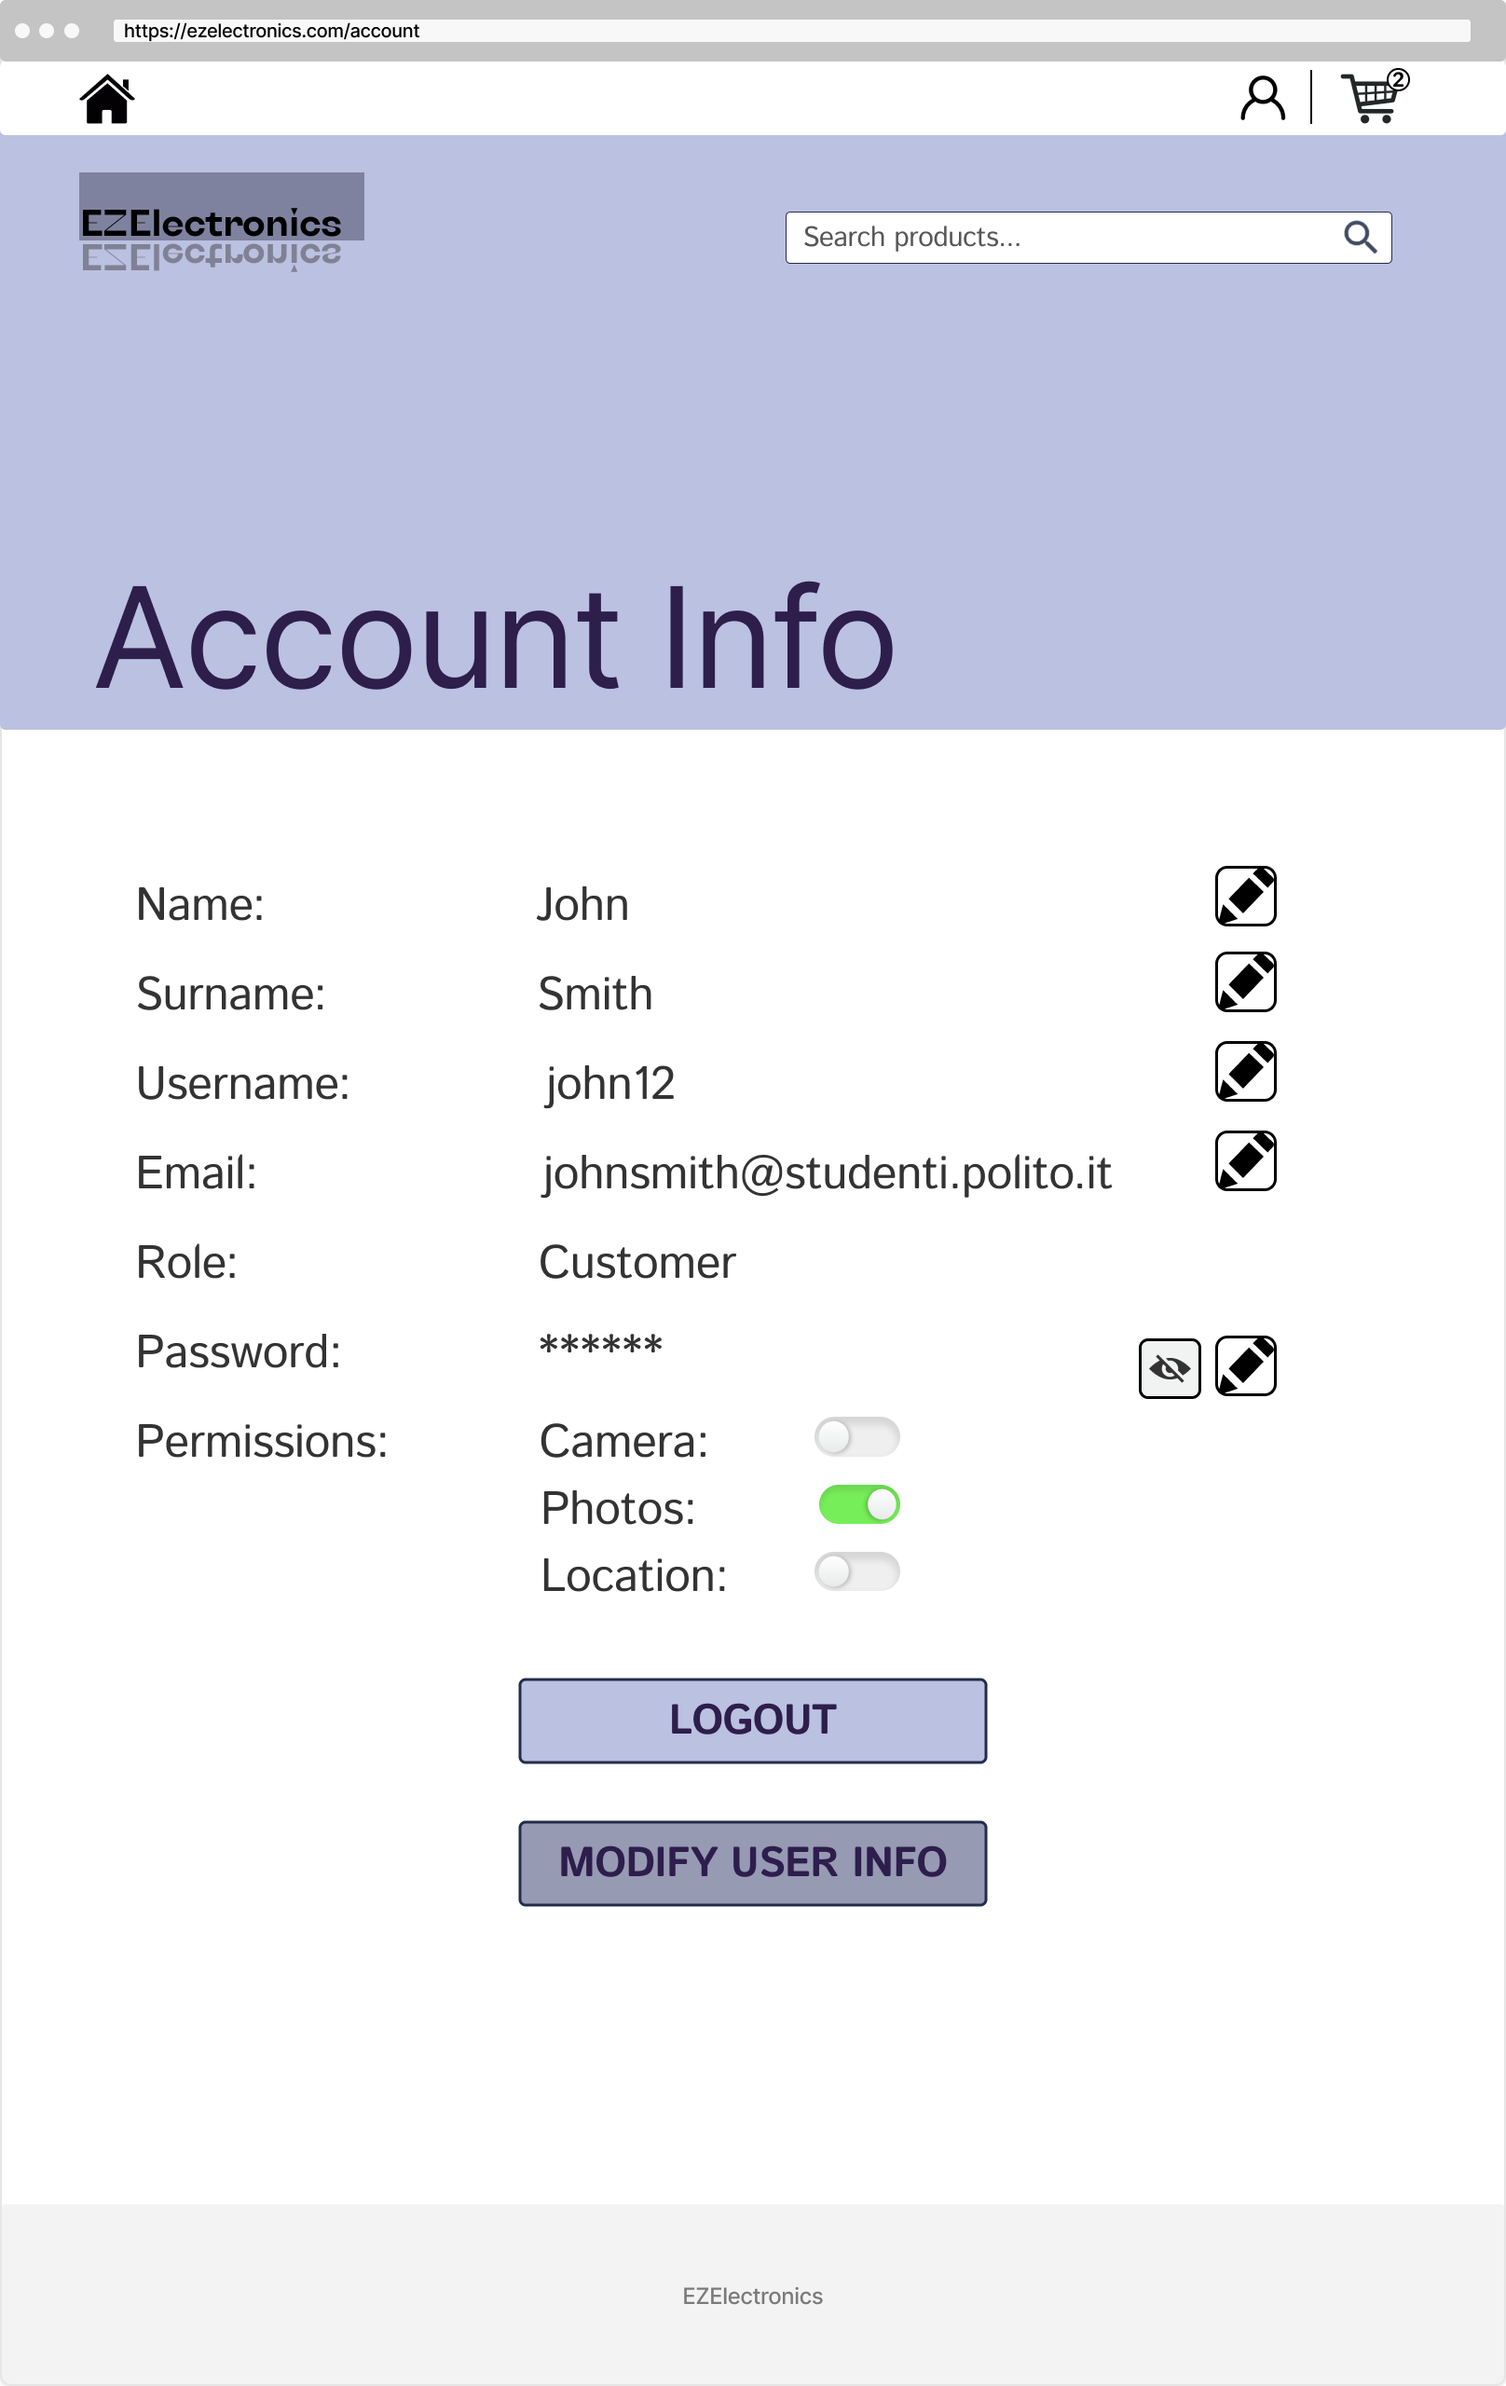
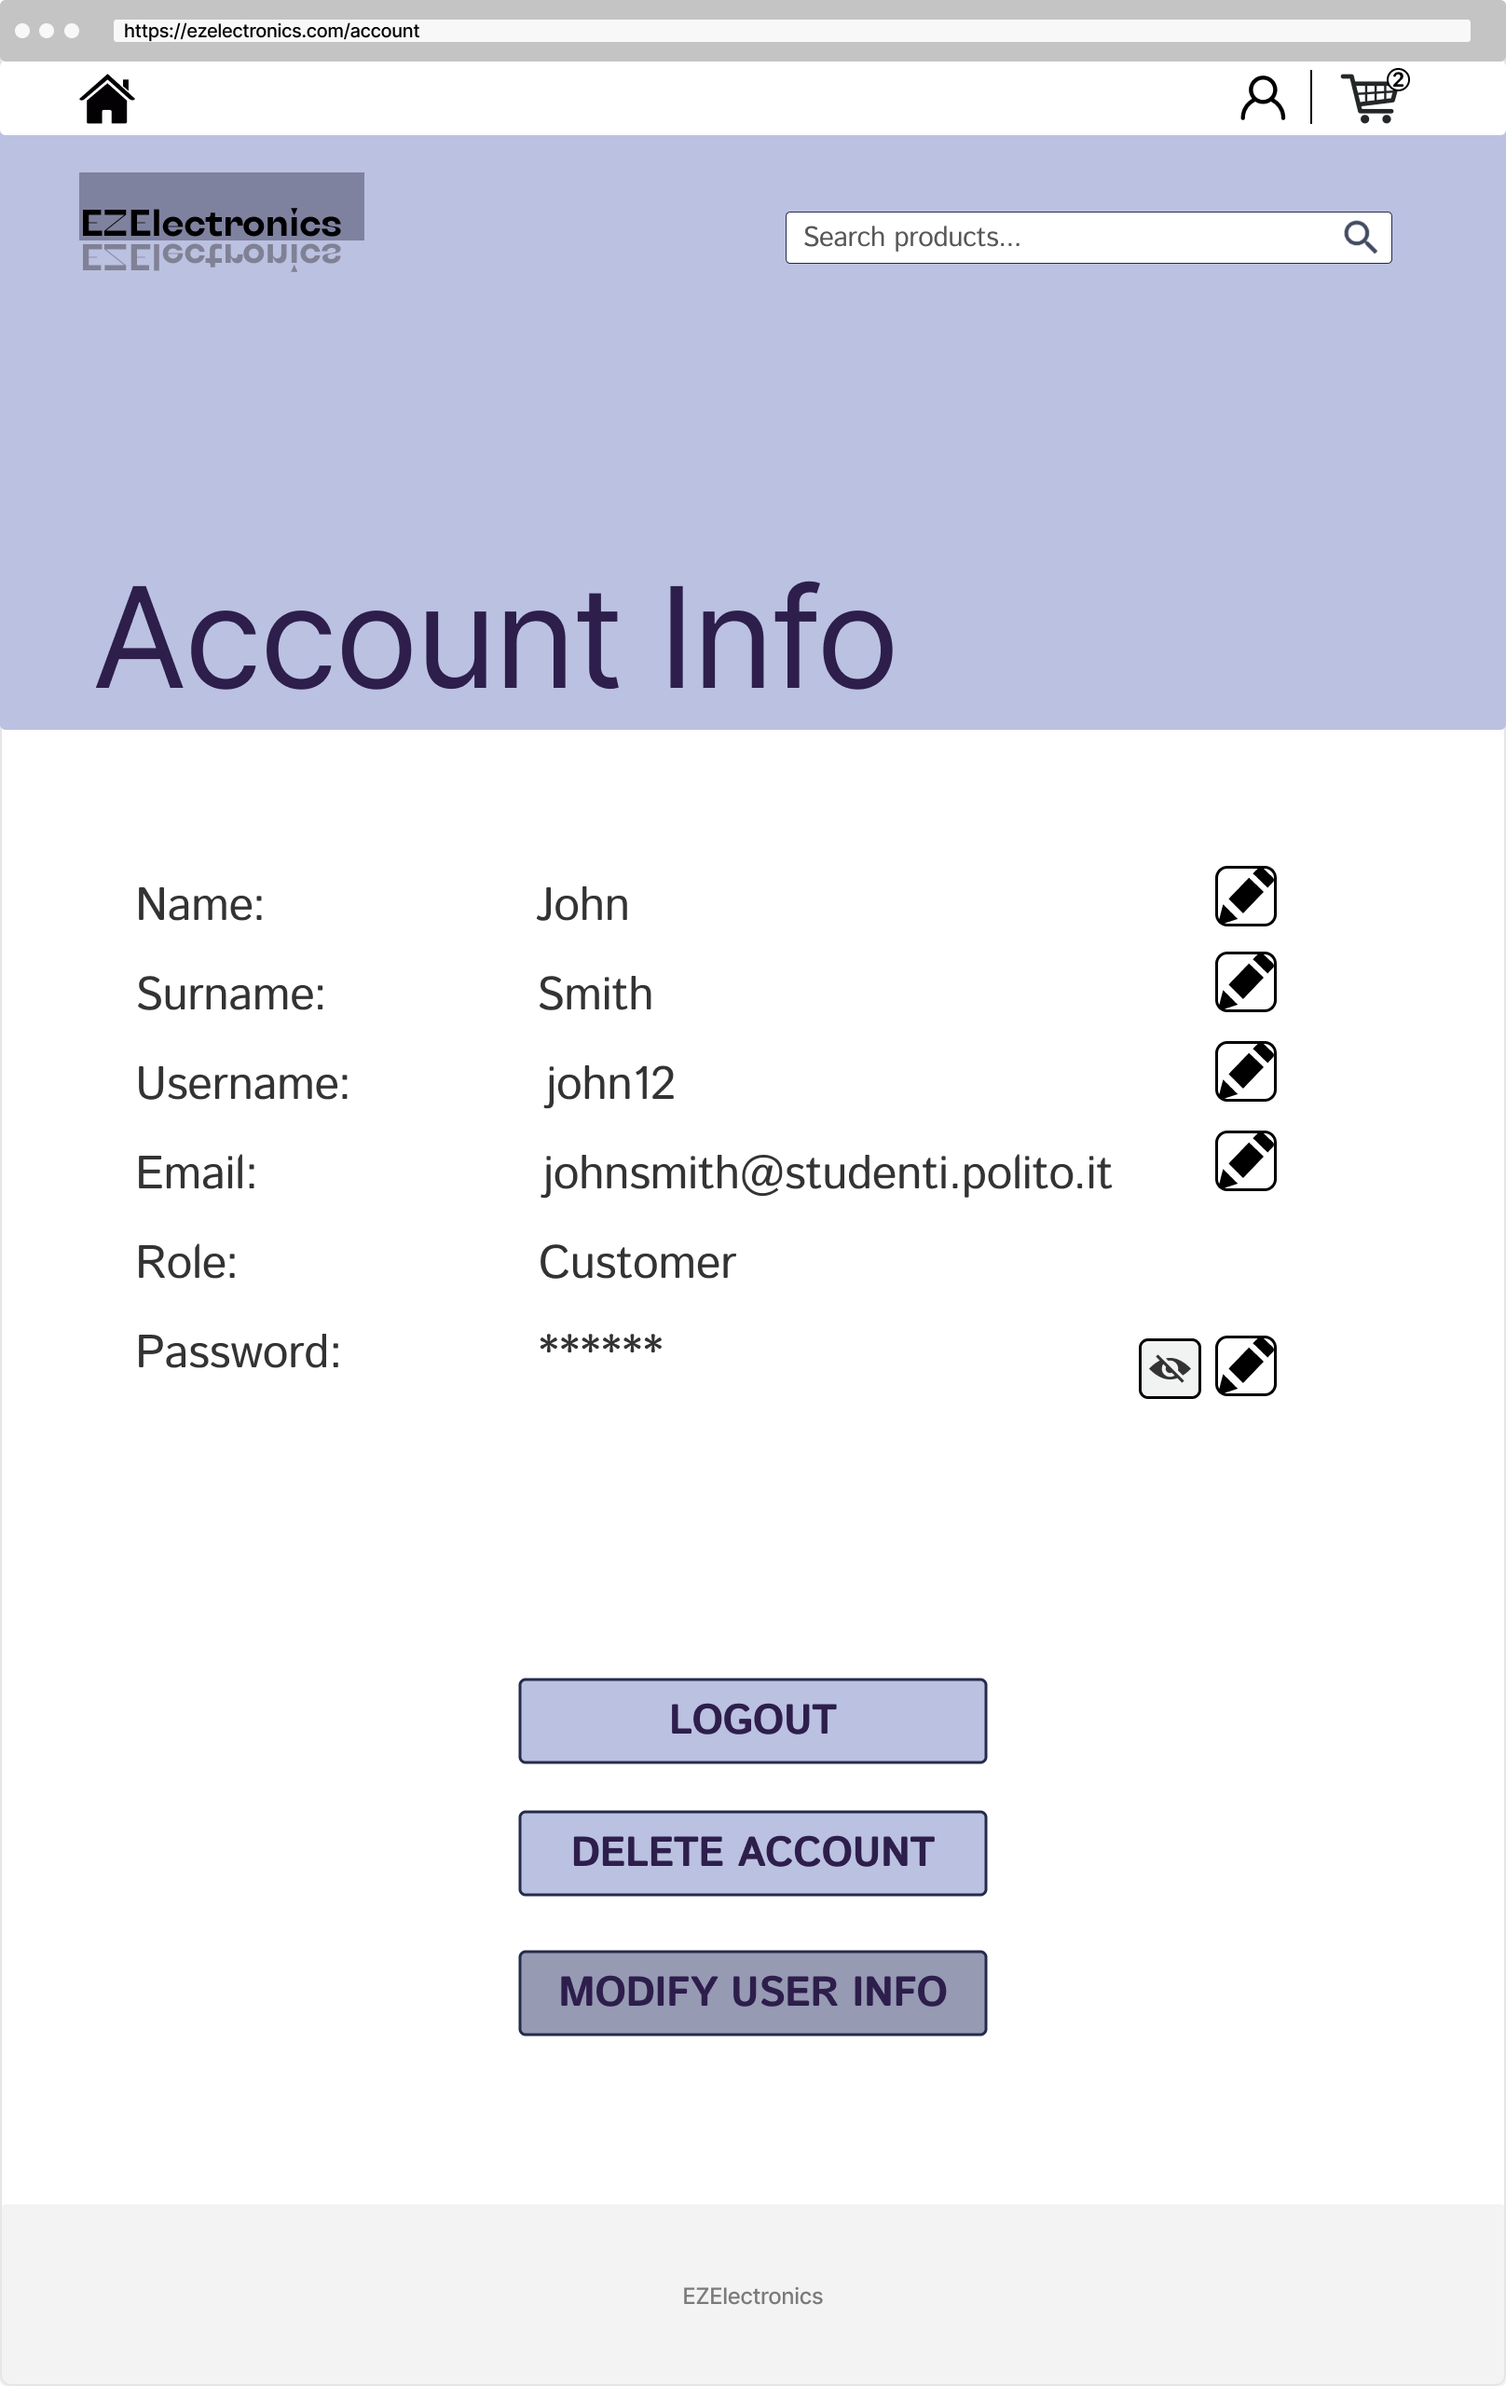
fix

diff --git a/RequirementsDocumentV2.md b/RequirementsDocumentV2.md
@@ -895,13 +895,13 @@ Story:
 
 ### Change account details, UC12
 
-| Actors Involved  |                                                                      User                                                                       |
-|------------------|:-----------------------------------------------------------------------------------------------------------------------------------------------:| 
-| Precondition     |                                                              User is authenticated                                                              |
-| Post condition   |                                                                                                                                                 |
-| Nominal Scenario |                                    Scenario 12.1, Scenario 12.2, Scenario 12.3, Scenario 12.4, Scenario 12.5                                    |
-| Variants         |                                                                  Scenario 12.7                                                                  |
-| Exceptions       | Scenario 12.8(username already exists), Scenario 12.9(non-existent email), Scenario 12.10(email already used), Scenario 12.11(invalid password) |
+| Actors Involved  |                                                                          User                                                                           |
+|------------------|:-------------------------------------------------------------------------------------------------------------------------------------------------------:| 
+| Precondition     |                                                                  User is authenticated                                                                  |
+| Post condition   |                                                                                                                                                         |
+| Nominal Scenario |                                        Scenario 12.1, Scenario 12.2, Scenario 12.3, Scenario 12.4, Scenario 12.5                                        |
+| Variants         |                                                                      Scenario 12.6                                                                      |
+| Exceptions       | Scenario 12.7(username already exists), Scenario 12.8(non-existent email), Scenario 12.9(email already used), Scenario 12.10(change password, not safe) |
 
 ##### Scenario 12.1 (change username) - FR6.1.1
 
@@ -918,7 +918,7 @@ Story:
 
 ##### Scenario 12.2 (change name) - FR6.1.2
 
-| Scenario 2.2   |                                                                       |
+| Scenario 12.2  |                                                                       |
 |----------------|:---------------------------------------------------------------------:| 
 | Precondition   |                         User is authenticated                         |
 | Post condition |                           User changed name                           |
@@ -931,7 +931,7 @@ Story:
 
 ##### Scenario 12.3 (change surname) - FR6.1.3
 
-| Scenario 2.3   |                                                                          |
+| Scenario 12.3  |                                                                          |
 |----------------|:------------------------------------------------------------------------:| 
 | Precondition   |                          User is authenticated                           |
 | Post condition |                           User changed surname                           |
@@ -944,7 +944,7 @@ Story:
 
 ##### Scenario 12.4 (change email) - FR6.1.4
 
-| Scenario 12.5  |                                                                        |
+| Scenario 12.4  |                                                                        |
 |----------------|:----------------------------------------------------------------------:| 
 | Precondition   |                         User is authenticated                          |
 | Post condition |                           User changed email                           |
@@ -960,8 +960,7 @@ Story:
 | 9              | system shows a message to User saying that the email has been modified |
 
 ##### Scenario 12.5 (change password) - FR6.1.5
-
-| Scenario 2.6   |                                                                           |
+| Scenario 12.5  |                                                                           |
 |----------------|:-------------------------------------------------------------------------:| 
 | Precondition   |                           User is authenticated                           |
 | Post condition |                           User changed password                           |
@@ -972,9 +971,8 @@ Story:
 | 4              |              system validates password with safety rules, ok              | 
 | 5              | system shows a message to User saying that the password has been modified |
 
-##### Scenario 12.7 (manager, change name) - FR6.1.2
-
-| Scenario 12.7  |                                                                  |
+##### Scenario 12.6 (manager, change name) - FR6.1.2
+| Scenario 12.6  |                                                                  |
 |----------------|:----------------------------------------------------------------:| 
 | Precondition   |                     Manager is authenticated                     |
 | Post condition |                       Manager changed name                       |
@@ -985,9 +983,8 @@ Story:
 | 4              |               system checks that name not null, ok               | 
 | 5              | Show a message to Manager saying that the name has been modified |
 
-##### Scenario 12.8 (change username, username already exists)
-
-| Scenario 12.8  |                                                                    |
+##### Scenario 12.7 (change username, username already exists)
+| Scenario 12.7  |                                                                    |
 |----------------|:------------------------------------------------------------------:| 
 | Precondition   |                       User is authenticated                        |
 | Post condition |                       username not modified                        |
@@ -998,9 +995,9 @@ Story:
 | 4              |    system get user by username(FR9.1), username alreasy exists     | 
 | 5              | system shows error to user saying that the username already exists |
 
-##### Scenario 12.9 (change email, incorrect verification code)
+##### Scenario 12.8 (change email, incorrect verification code)
 
-| Scenario 12.9  |                                                                           |
+| Scenario 12.8  |                                                                           |
 |----------------|:-------------------------------------------------------------------------:| 
 | Precondition   |                           User is authenticated                           |
 | Post condition |                            email not modified                             |
@@ -1015,9 +1012,9 @@ Story:
 | 8              |          system check verification key correctness, not correct           |
 | 9              | system shows error to user saying that the verification code is incorrect |
 
-##### Scenario 12.10 (change email, already existing )
+##### Scenario 12.9 (change email, already existing )
 
-| Scenario 12.10 |                                         |
+| Scenario 12.9  |                                         |
 |----------------|:---------------------------------------:| 
 | Precondition   |          User is authenticated          |
 | Post condition |           e-mail not modified           |
@@ -1027,7 +1024,7 @@ Story:
 | 3              |   search for email, already existing    | 
 | 4              |               Show error.               |
 
-##### Scenario 12.11 (change password, not safe)
+##### Scenario 12.10 (change password, not safe)
 
 | Scenario 12.11 |                                                          |
 |----------------|:--------------------------------------------------------:| 
@@ -1051,7 +1048,7 @@ Story:
 
 ##### Scenario 13.1 - FR5.1
 
-| Scenario 3.1   |                                                                                                                     |
+| Scenario 13.1  |                                                                                                                     |
 |----------------|:-------------------------------------------------------------------------------------------------------------------:| 
 | Precondition   |                                   User has an account and is logged in as Manager                                   |
 | Post condition |                                                New Store is created                                                 |
@@ -1064,7 +1061,7 @@ Story:
 
 ##### Scenario 13.2 (invalid address)
 
-| Scenario 3.2   |                                                                  |
+| Scenario 13.2  |                                                                  |
 |----------------|:----------------------------------------------------------------:| 
 | Precondition   |         User has an account and is logged in as Manager          |
 | Post condition |                   The new store is not created                   |
@@ -1087,7 +1084,7 @@ Story:
 
 ##### Scenario 14.1 - FR5.2
 
-| Scenario 4.1   |                                                                    |
+| Scenario 14.1  |                                                                    |
 |----------------|:------------------------------------------------------------------:| 
 | Precondition   |  User has an account, is logged in as Manager and owns the store   |
 | Post condition |                      Store's name is modified                      |
@@ -1136,7 +1133,7 @@ Story:
 
 ##### Scenario 15.1 - FR5.3
 
-| Scenario 5.1   |                                                                 |
+| Scenario 15.1  |                                                                 |
 |----------------|:---------------------------------------------------------------:| 
 | Precondition   | User has an account, is logged in as Manager and owns the store |
 | Post condition |                        Store is deleted                         |

diff --git a/GUIPrototypeV2.md b/GUIPrototypeV2.md
@@ -37,12 +37,12 @@ Version: V1—description of EZElectronics in FUTURE form (as proposed by the te
 ### Change account info UC12: 
 ##### Scenario 12.4 (change email)
 ![Step 1](assets/img/V2/GUI/4.2-account-info.png)
-#### Scenario 12.9 (change email, wrong verification code)
-![Step 2](assets/img/V2/GUI/4.1-account-info.png)
 ##### Scenario 12.1 (change username)
 ![Step 1](assets/img/V2/GUI/4.3-account-info.png)
 ##### Scenario 12.5, 12.11 (change password, unsafe password)
 ![Step 1](assets/img/V2/GUI/4.4-account-info.png)
+#### Scenario 12.9 (change email, wrong verification code)
+![Step 2](assets/img/V2/GUI/4.1-account-info.png)
 
 
 ### Get products UC6:
@@ -107,7 +107,6 @@ Version: V1—description of EZElectronics in FUTURE form (as proposed by the te
 ![Manage store](assets/img/V2/GUI/14.1-manage-change-name.png)
 
 
-[//]: # (![Get owned products]&#40;assets/img/V2/GUI/16-store-product.png&#41;)
 
 ### Delete Store UC15:
 ![Delete store](assets/img/V2/GUI/15-delete-store.png)
